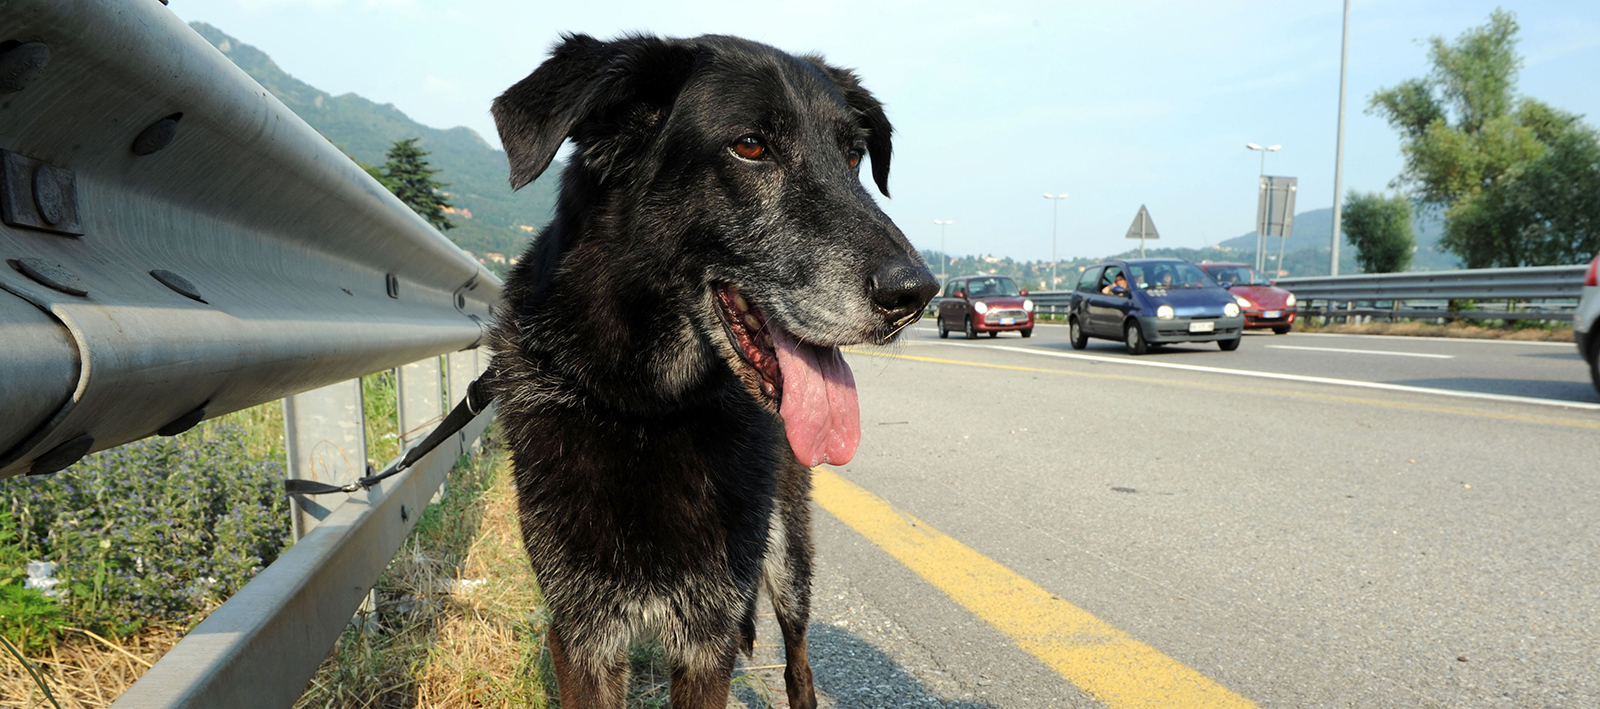
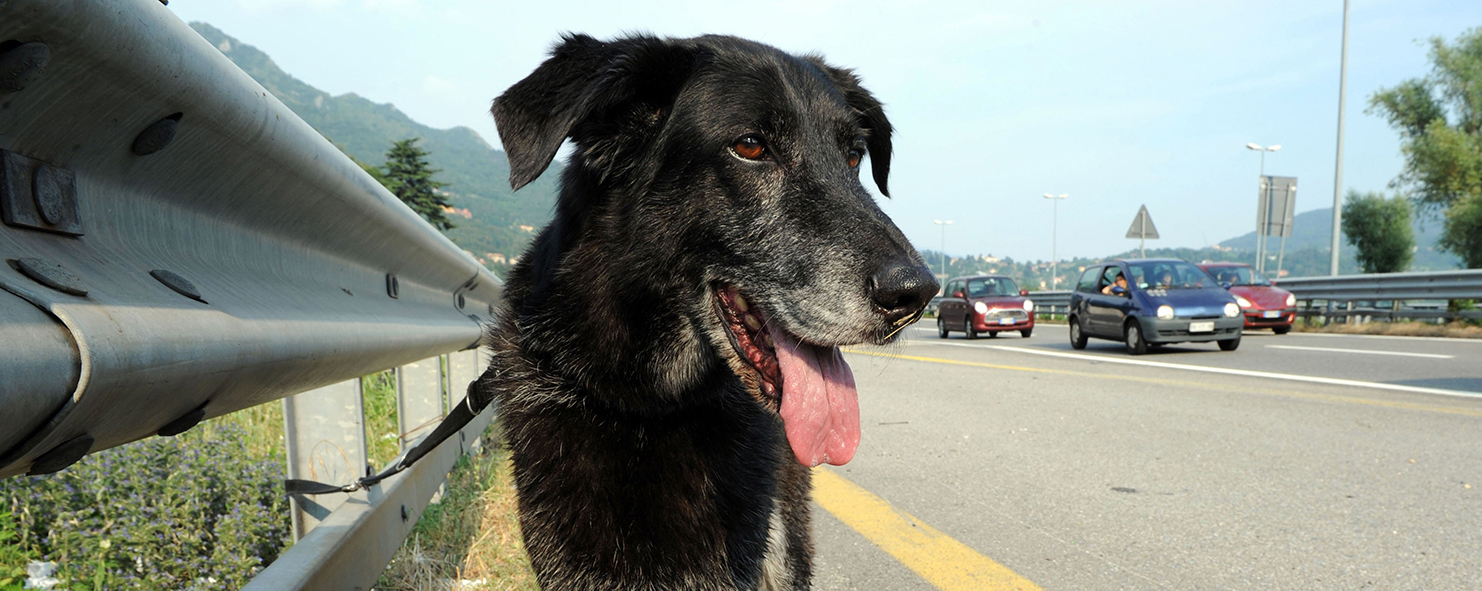
UPDATE- Cambio centrar perro

diff --git a/index.html b/index.html
@@ -154,15 +154,15 @@
     </div>
   </section>
   <section class="" style="padding-top:10px">
-    <div class="parallax-window" data-parallax="scroll" data-image-src="img/n14.jpg" style="background: rgba(21,21,21,0.2)">
+    <div class="parallax-window" data-parallax="scroll" data-image-src="img/n14.jpg" style="background: rgba(21,21,21,0.2); ">
       <div class="row" style="padding-top:1%">
-      <div class="col-md-4 col-sm-4 col-4 "style="">
+      <div class="col-md-4 col-sm-4 col-4 " style="">
         <img src="img/crecimiento perros.png" width="105%" height="100%" alt="">
       </div>
       <div class="col-md-4">
 
       </div>
-      <div class="col-md-4">
+      <div class="col-md-4" style="right:3%">
         <div class="row" >
          <div class=" col-md-12 col-sm-5 col-12 text-justify" style="background: rgba(21,21,21,.9); ">
                 <h5 class="font3 text-white"> Esterilizar es amarlos protegernos y eliminar el sufrimiento de
@@ -182,6 +182,20 @@
     </div>
     </div>
 
+
+
+
+
+
+
+
+
+
+
+
+
+
+
   </section>
   <section class="testimonial color-txt" id="sec-2" style="background:#414141">
       <div class="container">
@@ -197,9 +211,6 @@
           <figure class="col-md-6 view overlay cardBox">
             <div class="card">
               <img class="card-img-top" src="img/perros22.jpg" alt="Card image cap">
-              <!-- <a href="img/perros22.jpg" data-lightbox="Galeria-mitos" data-title="Mitos"> -->
-              <!-- <img src="img/perros22.jpg" class="img-fluid"> -->
-              <!-- </a> -->
             </div>
           </figure>
           <figure class="col-md-6 card2" >
